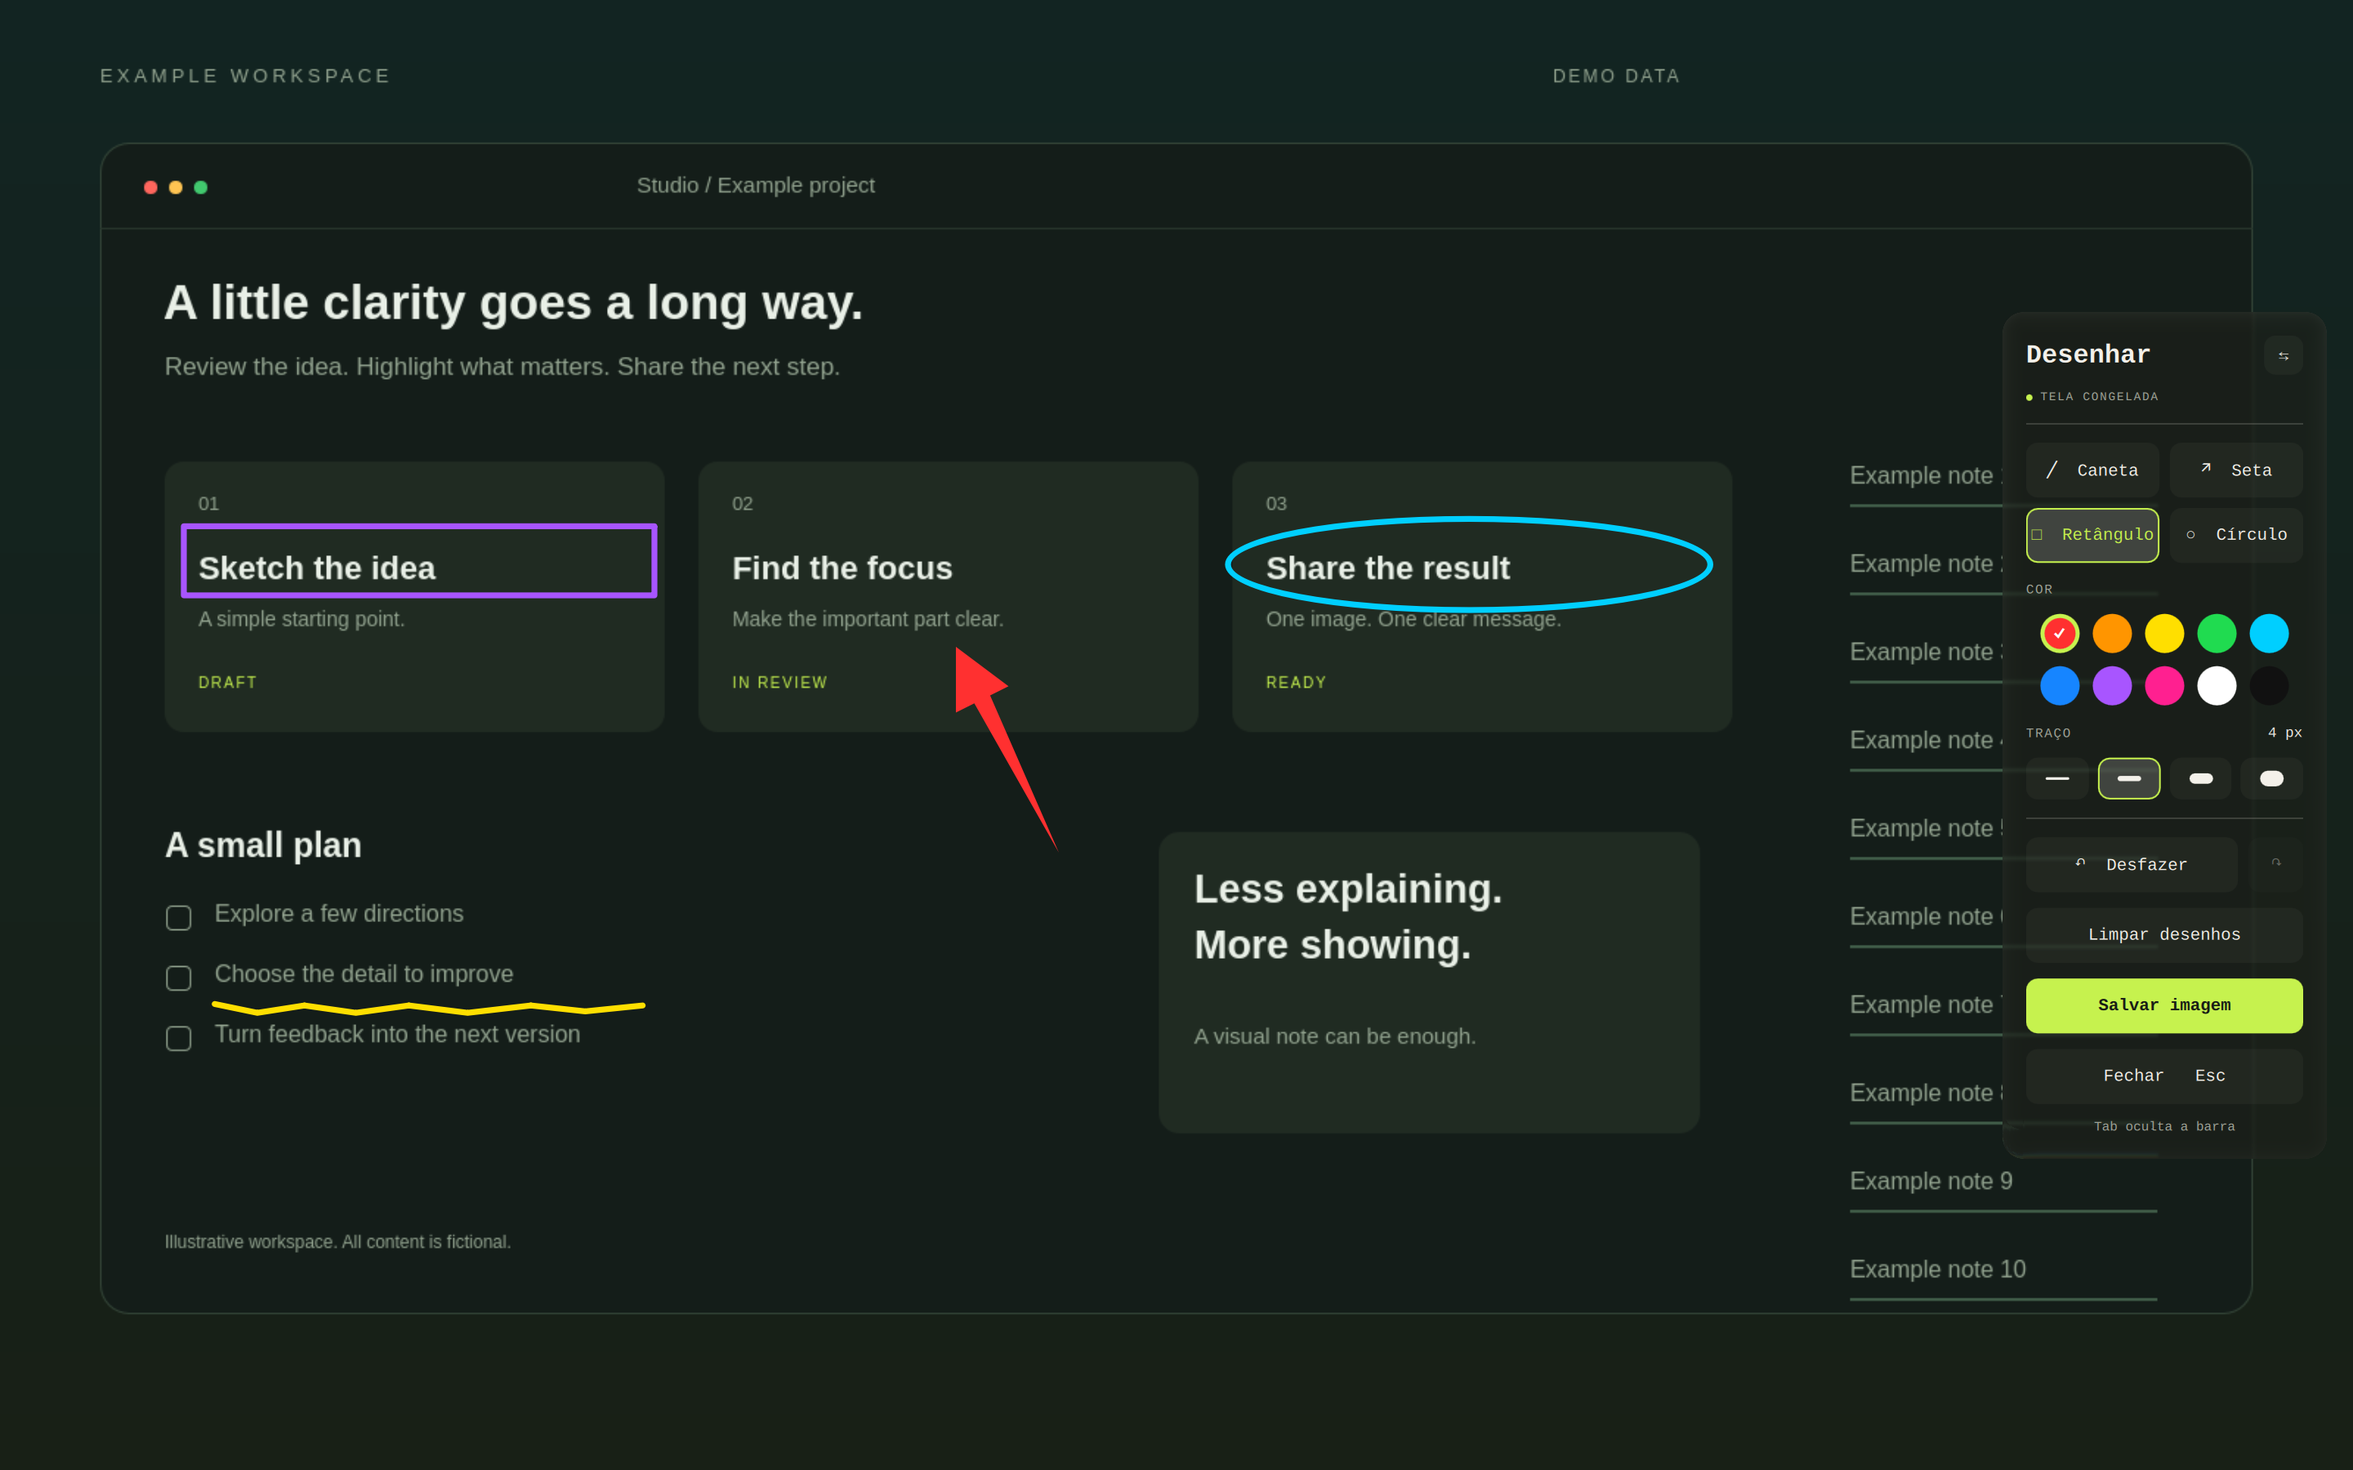
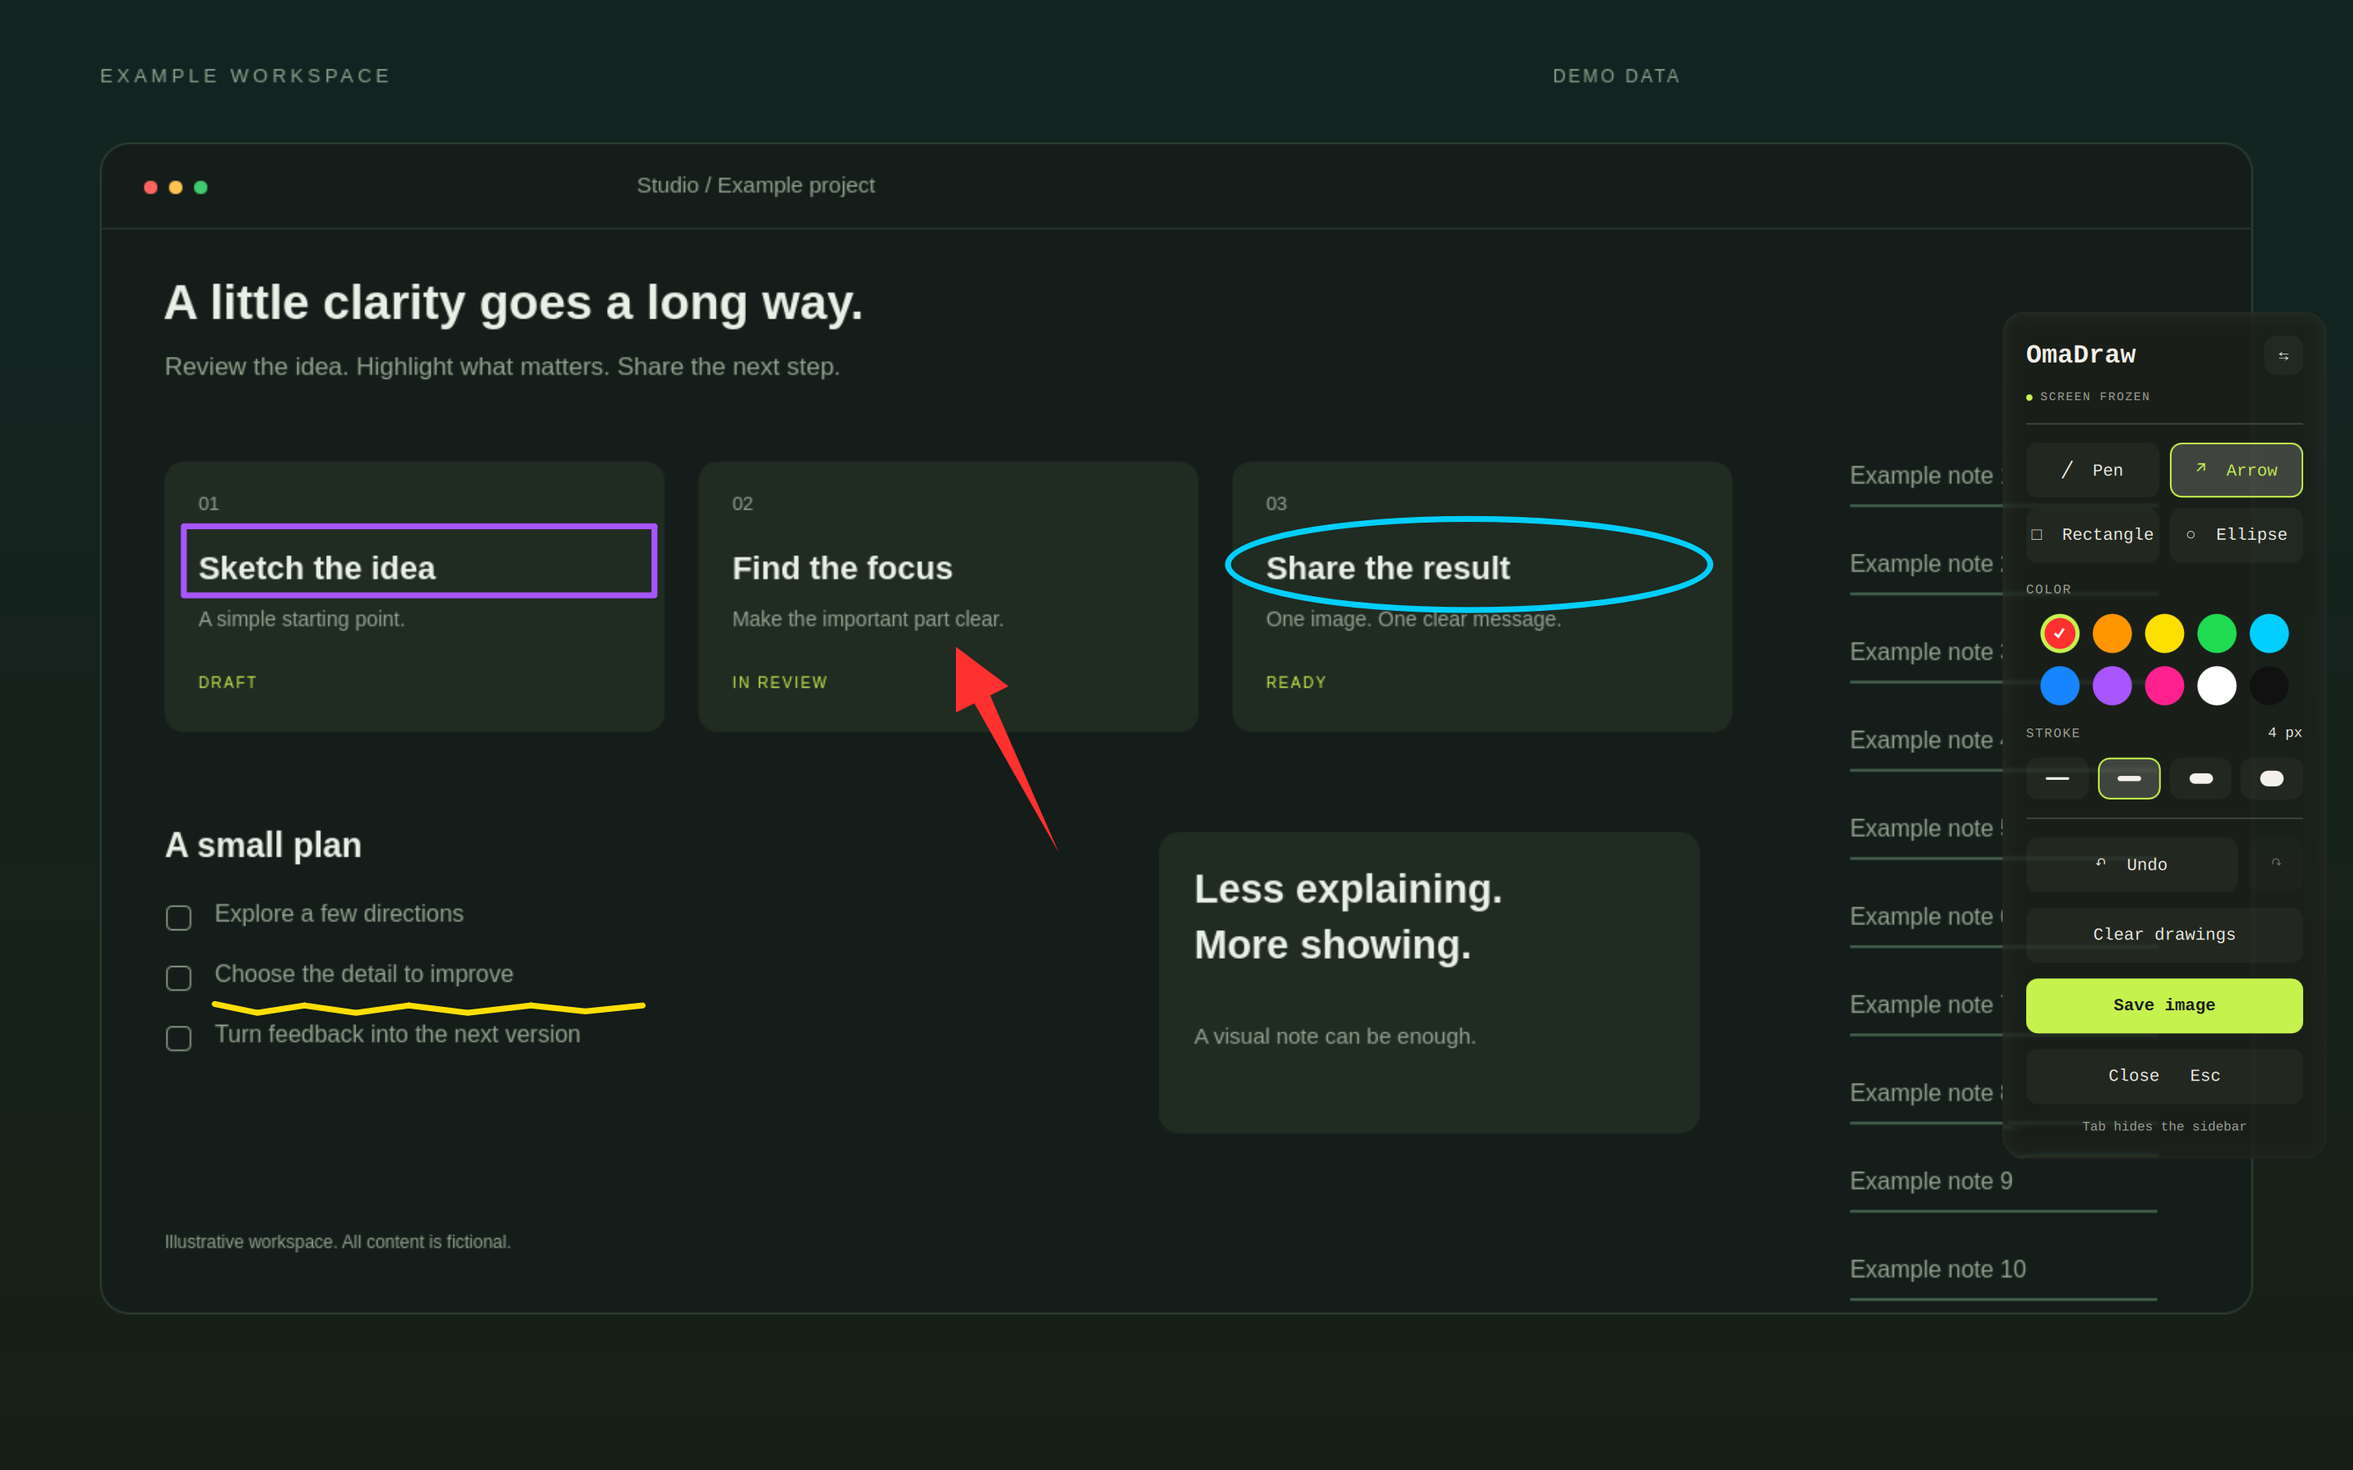
Rename product to OmaDraw and use English throughout the interface

diff --git a/EditorToolbar.qml b/EditorToolbar.qml
@@ -27,13 +27,13 @@ Rectangle {
             spacing: 12
             RowLayout {
                 Layout.fillWidth: true
-                Label { text: "Desenhar"; color: editor.theme.foreground; font.pixelSize: 20 * editor.theme.fontScale; font.weight: Font.DemiBold; Layout.fillWidth: true }
-                ThemedButton { text: "⇆"; implicitWidth: 30; implicitHeight: 30; hint: "Mover a barra para o outro lado"; onClicked: editor.toolbarLeft = !editor.toolbarLeft }
+                Label { text: "OmaDraw"; color: editor.theme.foreground; font.pixelSize: 20 * editor.theme.fontScale; font.weight: Font.DemiBold; Layout.fillWidth: true }
+                ThemedButton { text: "⇆"; implicitWidth: 30; implicitHeight: 30; hint: "Move sidebar to the other side"; onClicked: editor.toolbarLeft = !editor.toolbarLeft }
             }
             RowLayout {
                 spacing: 6
                 Rectangle { width: 5; height: 5; radius: 3; color: editor.theme.accent }
-                Label { text: "TELA CONGELADA"; color: editor.theme.muted; font.pixelSize: 9 * editor.theme.fontScale; font.letterSpacing: 1.1 }
+                Label { text: "SCREEN FROZEN"; color: editor.theme.muted; font.pixelSize: 9 * editor.theme.fontScale; font.letterSpacing: 1.1 }
             }
             Rectangle { Layout.fillWidth: true; height: 1; color: editor.theme.separator; Layout.topMargin: 2; Layout.bottomMargin: 2 }
             GridLayout {
@@ -41,20 +41,20 @@ Rectangle {
                 columnSpacing: 8; rowSpacing: 8
                 Layout.fillWidth: true
                 Repeater {
-                    model: [ {tool: "pen", label: "╱  Caneta", key: "P"}, {tool: "arrow", label: "↗  Seta", key: "A"}, {tool: "rectangle", label: "□  Retângulo", key: "R"}, {tool: "ellipse", label: "○  Círculo", key: "O"} ]
+                    model: [ {tool: "pen", label: "╱  Pen", key: "P"}, {tool: "arrow", label: "↗  Arrow", key: "A"}, {tool: "rectangle", label: "□  Rectangle", key: "R"}, {tool: "ellipse", label: "○  Ellipse", key: "O"} ]
                     ThemedButton {
                         required property var modelData
                         objectName: modelData.tool
                         Layout.fillWidth: true
                         Layout.preferredWidth: 80
                         text: modelData.label
-                        hint: modelData.key + " · Shift para quadrado/círculo perfeito"
+                        hint: modelData.key + " · Shift for a square or circle"
                         selected: editor.tool === modelData.tool
                         onClicked: editor.tool = modelData.tool
                     }
                 }
             }
-            Label { text: "COR"; color: editor.theme.muted; font.pixelSize: 10 * editor.theme.fontScale; font.letterSpacing: 1; Layout.topMargin: 3 }
+            Label { text: "COLOR"; color: editor.theme.muted; font.pixelSize: 10 * editor.theme.fontScale; font.letterSpacing: 1; Layout.topMargin: 3 }
             GridLayout {
                 columns: 5; columnSpacing: 10; rowSpacing: 10
                 Layout.alignment: Qt.AlignHCenter
@@ -75,7 +75,7 @@ Rectangle {
             }
             RowLayout {
                 Layout.fillWidth: true; Layout.topMargin: 3
-                Label { text: "TRAÇO"; color: editor.theme.muted; font.pixelSize: 10 * editor.theme.fontScale; font.letterSpacing: 1; Layout.fillWidth: true }
+                Label { text: "STROKE"; color: editor.theme.muted; font.pixelSize: 10 * editor.theme.fontScale; font.letterSpacing: 1; Layout.fillWidth: true }
                 Label { text: editor.inkSize + " px"; color: editor.theme.foreground; font.pixelSize: 11 * editor.theme.fontScale }
             }
             RowLayout {
@@ -95,13 +95,13 @@ Rectangle {
             Rectangle { Layout.fillWidth: true; height: 1; color: editor.theme.separator; Layout.topMargin: 2; Layout.bottomMargin: 2 }
             RowLayout {
                 Layout.fillWidth: true; spacing: 8
-                ThemedButton { objectName: "undo"; text: "↶  Desfazer"; Layout.fillWidth: true; enabled: editor.history.length > 0 && !editor.saving; hint: "Ctrl + Z"; onClicked: editor.undo() }
+                ThemedButton { objectName: "undo"; text: "↶  Undo"; Layout.fillWidth: true; enabled: editor.history.length > 0 && !editor.saving; hint: "Ctrl + Z"; onClicked: editor.undo() }
                 ThemedButton { objectName: "redo"; text: "↷"; implicitWidth: 42; enabled: editor.future.length > 0 && !editor.saving; hint: "Ctrl + Shift + Z"; onClicked: editor.redo() }
             }
-            ThemedButton { objectName: "clear"; text: "Limpar desenhos"; Layout.fillWidth: true; enabled: editor.shapes.length > 0 && !editor.saving; hint: "Delete · mantém a tela congelada"; onClicked: editor.clear() }
-            ThemedButton { objectName: "save"; text: editor.saving ? "Salvando…" : "Salvar imagem"; primary: true; Layout.fillWidth: true; enabled: editor.imageReady && !editor.saving; hint: "Ctrl + S · salva sem a barra"; onClicked: editor.save() }
-            ThemedButton { objectName: "close"; text: "Fechar   Esc"; Layout.fillWidth: true; onClicked: editor.closeRequested() }
-            Label { text: "Tab oculta a barra"; color: editor.theme.muted; font.pixelSize: 10 * editor.theme.fontScale; Layout.alignment: Qt.AlignHCenter }
+            ThemedButton { objectName: "clear"; text: "Clear drawings"; Layout.fillWidth: true; enabled: editor.shapes.length > 0 && !editor.saving; hint: "Delete · keep the frozen screen"; onClicked: editor.clear() }
+            ThemedButton { objectName: "save"; text: editor.saving ? "Saving…" : "Save image"; primary: true; Layout.fillWidth: true; enabled: editor.imageReady && !editor.saving; hint: "Ctrl + S · save without controls"; onClicked: editor.save() }
+            ThemedButton { objectName: "close"; text: "Close   Esc"; Layout.fillWidth: true; onClicked: editor.closeRequested() }
+            Label { text: "Tab hides the sidebar"; color: editor.theme.muted; font.pixelSize: 10 * editor.theme.fontScale; Layout.alignment: Qt.AlignHCenter }
         }
     }
 }

diff --git a/Desenhar.qml b/Desenhar.qml
@@ -62,7 +62,7 @@ Item {
     function toggle() { if (requested) dismiss(); else open("{}") }
     function state() { return JSON.stringify({opened: opened, requested: requested, ready: editor.imageReady, shapes: editor.shapes.length, saving: saving.running, status: editor.statusText, toolbar: toolbarPanel.visible, palette: currentTheme.dark ? "dark" : "light", theme: {background: String(currentTheme.background), foreground: String(currentTheme.foreground), accent: String(currentTheme.accent), font: currentTheme.fontFamily, radius: currentTheme.radius}}) }
     function error(message) {
-        Quickshell.execDetached(["omarchy-notification-send", "Desenhar na tela", message])
+        Quickshell.execDetached(["omarchy-notification-send", "OmaDraw", message])
     }
 
     Process {
@@ -71,7 +71,7 @@ Item {
         stdout: StdioCollector {
             onStreamFinished: {
                 var result
-                try { result = JSON.parse(text) } catch (e) { result = {error: "Não foi possível capturar a tela."} }
+                try { result = JSON.parse(text) } catch (e) { result = {error: "Could not capture the screen."} }
                 if (result.error) { root.dismiss(); root.error(result.error); return }
                 if (!root.requested) { Quickshell.execDetached(["python", root.helper, "cleanup", result.path]); return }
                 root.targetScreen = Quickshell.screens.find(s => s.name === result.monitor) || Quickshell.screens[0]
@@ -89,8 +89,8 @@ Item {
         stdout: StdioCollector {
             onStreamFinished: {
                 var result
-                try { result = JSON.parse(text) } catch (e) { result = {error: "Não foi possível salvar. Seu desenho foi mantido."} }
-                editor.statusText = result.error ? "Falha ao salvar: " + result.error : "Salvo em " + result.path
+                try { result = JSON.parse(text) } catch (e) { result = {error: "Could not save. Your drawing has been preserved."} }
+                editor.statusText = result.error ? "Save failed: " + result.error : "Saved to " + result.path
                 if (!root.opened) root.error(editor.statusText)
             }
         }

diff --git a/Palette.js b/Palette.js
@@ -3,4 +3,4 @@
 // Drawing colors depend only on light/dark mode, never on the theme accent.
 var dark = ["#ff3030", "#ff9500", "#ffdf00", "#20db50", "#00cfff", "#1685ff", "#a855ff", "#ff2090", "#ffffff", "#111111"]
 var light = ["#e00000", "#e56a00", "#c49a00", "#008f30", "#008ba8", "#005bea", "#7b20d0", "#d6006b", "#ffffff", "#111111"]
-var names = ["Vermelho", "Laranja", "Amarelo", "Verde", "Ciano", "Azul", "Roxo", "Rosa", "Branco", "Preto"]
+var names = ["Red", "Orange", "Yellow", "Green", "Cyan", "Blue", "Purple", "Pink", "White", "Black"]

diff --git a/capture.py b/capture.py
@@ -91,7 +91,7 @@ def draw_shape(ctx, shape):
         ctx.fill()
         return
     else:
-        raise ValueError("Ferramenta desconhecida")
+        raise ValueError("Unknown drawing tool")
     ctx.stroke()
 
 
@@ -114,12 +114,12 @@ def pictures_dir():
 
 def save(payload, directory=None):
     surface = render(payload)
-    directory = Path(directory) if directory else pictures_dir() / "Anotacoes"
+    directory = Path(directory) if directory else pictures_dir() / "Annotations"
     directory.mkdir(parents=True, exist_ok=True)
-    name = "anotacao-" + datetime.now().strftime("%Y-%m-%d_%H-%M-%S-%f") + ".png"
+    name = "annotation-" + datetime.now().strftime("%Y-%m-%d_%H-%M-%S-%f") + ".png"
     destination = directory / name
     # Publish only the completed image, with private permissions.
-    fd, temporary = tempfile.mkstemp(prefix=".anotacao-", dir=directory)
+    fd, temporary = tempfile.mkstemp(prefix=".annotation-", dir=directory)
     try:
         with os.fdopen(fd, "wb") as stream:
             surface.write_to_png(stream)
@@ -141,7 +141,7 @@ def main():
             cleanup(sys.argv[2])
             result = {}
         else:
-            raise ValueError("Ação desconhecida")
+            raise ValueError("Unknown action")
         print(json.dumps(result))
     except Exception as error:
         print(json.dumps({"error": str(error)}))

diff --git a/README.md b/README.md
@@ -1,10 +1,10 @@
-# Desenhar
+# OmaDraw
 
 Freeze your screen. Draw the point. Keep your flow.
 
-Desenhar is an **Omarchy Quattro screen annotation plugin** with a native sidebar, vivid drawing colors and optional integration with the system's Liquid Glass material. The interface is in Brazilian Portuguese.
+OmaDraw is an **Omarchy Quattro screen annotation plugin** with a native sidebar, vivid drawing colors and optional integration with the system's Liquid Glass material. The interface and documentation are in English.
 
-![Desenhar with arrows, shapes and a native sidebar over a fictional workspace](preview.png)
+![OmaDraw with arrows, shapes and a native sidebar over a fictional workspace](preview.png)
 
 All demonstration images use an original fictional workspace. They contain no personal desktop content, account information, messages or real project data.
 
@@ -20,14 +20,14 @@ All demonstration images use an original fictional workspace. They contain no pe
 - Save a PNG at the original monitor resolution, without controls, and continue drawing.
 - Hide the sidebar with **Tab**, or move it to the opposite side.
 
-Drawing style is inspired by [Tensaku](https://github.com/jondkinney/tensaku). Desenhar has its own QML/Cairo implementation and does not require Tensaku.
+Drawing style is inspired by [Tensaku](https://github.com/jondkinney/tensaku). OmaDraw has its own QML/Cairo implementation and does not require Tensaku.
 
 ## Install
 
 Requires **Omarchy Quattro with the Quickshell shell and Lua Hyprland configuration**. It is not compatible with the older Waybar-based Omarchy shell.
 
 ```bash
-omarchy plugin add https://github.com/BrunooMoniz/omarchy-desenhar --enable
+omarchy plugin add https://github.com/BrunooMoniz/omadraw --enable
 ```
 
 Then configure the shortcut and compositor integration:
@@ -61,7 +61,7 @@ Liquid Glass is **optional** and is not installed or enabled by this plugin. Int
 | Clear drawings | Delete |
 | Hide / show sidebar | Tab |
 
-Images are saved in the system's Pictures directory under `Anotacoes/`. If `OMARCHY_SCREENSHOT_DIR` is set, that directory is used instead of Pictures, still with the `Anotacoes/` subdirectory.
+Images are saved in the system's Pictures directory under `Annotations/`. If `OMARCHY_SCREENSHOT_DIR` is set, that directory is used instead of Pictures, still with the `Annotations/` subdirectory.
 
 ## Privacy and limits
 

diff --git a/docs/TESTING.md b/docs/TESTING.md
@@ -10,4 +10,4 @@ Release preparation checks:
 
 `./tests/run.sh` runs the durable automated coverage. `omarchy plugin validate .` validates the installed Omarchy manifest contract. A standalone real desktop session is needed for native compositor checks; the offscreen Qt tests do not prove compositor effects.
 
-Physical multi-monitor and rotated-output layouts have not been verified. The UI is currently in Brazilian Portuguese.
+Physical multi-monitor and rotated-output layouts have not been verified. The UI and documentation are in English.
